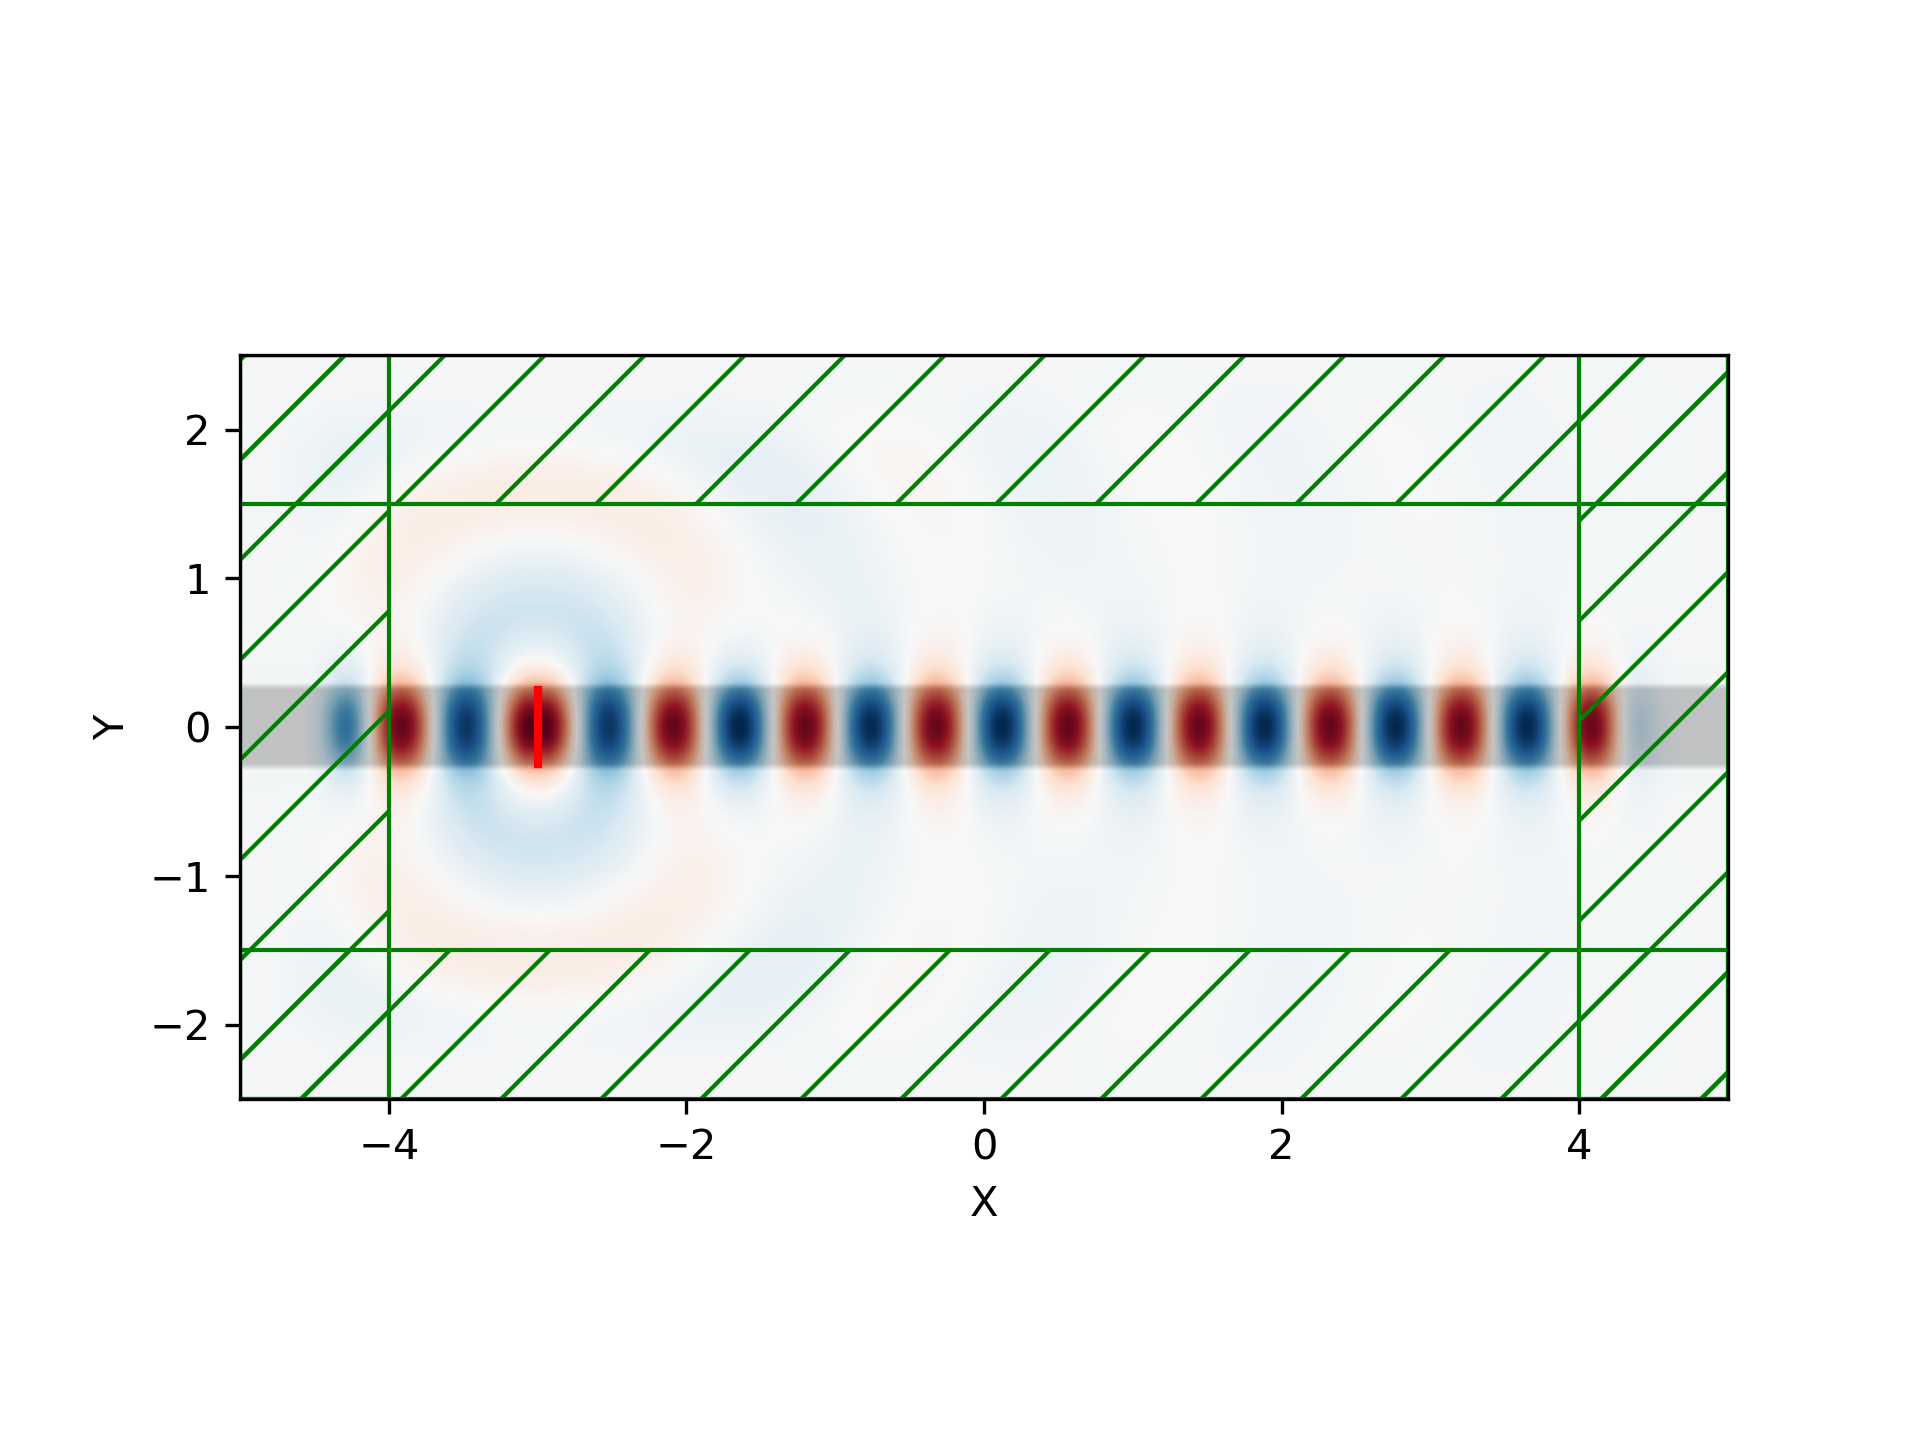
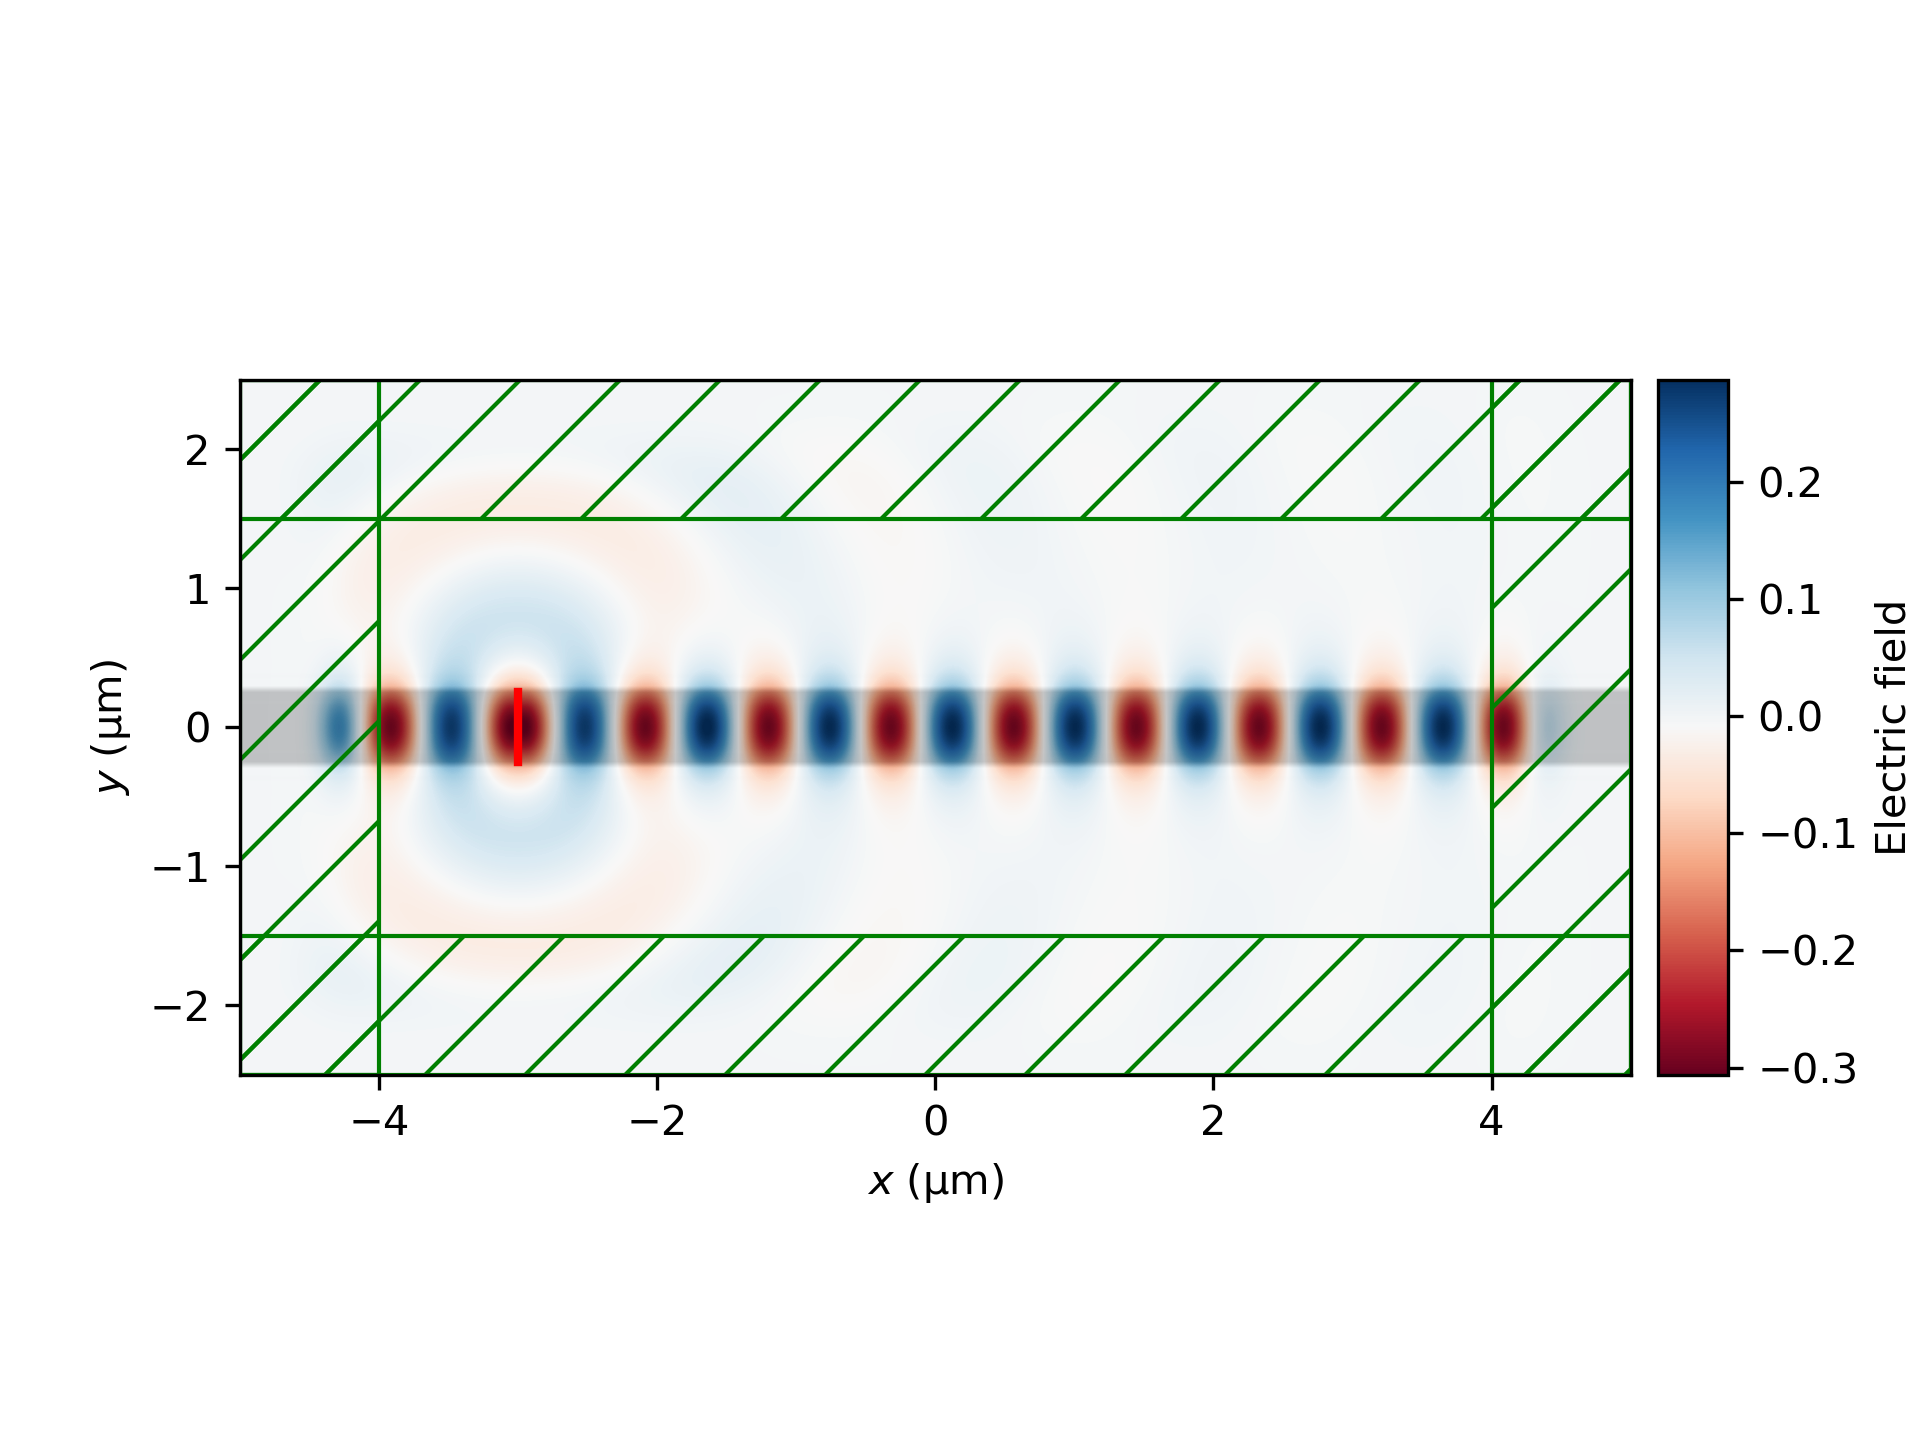
Correction

diff --git a/demo_codes/straight_waveguide.py b/demo_codes/straight_waveguide.py
@@ -1,0 +1,263 @@
+import meep as mp
+import numpy as np
+import h5py
+import matplotlib.pyplot as plt
+from matplotlib.animation import FuncAnimation
+from matplotlib import cm
+from matplotlib.colors import TwoSlopeNorm
+
+
+cell_x = 10
+cell_y = 5
+cell_z = 0
+
+cell = mp.Vector3(cell_x, cell_y, cell_z)
+
+wg_sx = mp.inf  # length
+wg_sy = 0.5  # width
+wg_sz = mp.inf  # height
+
+Si3N4 = mp.Medium(index=2.0)
+
+geometry = [
+    mp.Block(
+        mp.Vector3(wg_sx, wg_sy, wg_sz), center=mp.Vector3(0, 0, 0), material=Si3N4
+    )
+]
+
+# coordinates of the source
+source_x = -3
+source_y = 0
+source_z = 0
+
+wavelength = 1.55
+width = 5
+
+sources = [
+    mp.Source(
+        mp.ContinuousSource(wavelength=wavelength, width=width),
+        component=mp.Ez,
+        center=mp.Vector3(source_x, source_y, source_z),
+        size=mp.Vector3(0, wg_sy, 0),
+    )
+]
+
+pml_w = 1.0
+pml_layers = [mp.PML(pml_w)]
+
+resolution = 20
+
+sim = mp.Simulation(
+    cell_size=cell,
+    boundary_layers=pml_layers,
+    geometry=geometry,
+    sources=sources,
+    resolution=resolution,
+)
+
+sim.plot2D()
+plt.savefig("1_simulation_setup.pdf")
+plt.show()
+
+sim_time = 200
+sim.run(until=sim_time)
+
+
+fig = plt.figure()
+ax = fig.add_subplot(1, 1, 1)
+
+# Capture the image object returned by sim.plot2D
+sim.plot2D(
+    fields=mp.Ez,
+    ax=ax,
+    field_parameters={"colorbar": True},
+    colorbar_parameters={"label": "Electric field"},
+)
+
+# Label axes
+ax.set_xlabel(r"$x$ (µm)")
+ax.set_ylabel(r"$y$ (µm)")
+plt.savefig("2_after_first_run.pdf")
+plt.show()
+
+
+# dielectric constant in the simulation cell (i.e. the waveguide geometry)
+eps_data = sim.get_array(
+    center=mp.Vector3(0, 0, 0), size=cell, component=mp.Dielectric
+).T
+
+# the z-component of the electic field
+ez_data = sim.get_array(center=mp.Vector3(0, 0, 0), size=cell, component=mp.Ez).T
+
+fig = plt.figure()
+ax = fig.add_subplot(1, 1, 1)
+ax.imshow(
+    eps_data, extent=[-cell_x / 2, cell_x / 2, -cell_y / 2, cell_y / 2], cmap="binary"
+)
+
+# determine the global minimum and maximum of the field
+data_min = ez_data.min()
+data_max = ez_data.max()
+print(f"min: {data_min}, max: {data_max}")
+
+# create a custom colormap where zero is white
+cmap = cm.RdBu  # Base colormap
+norm = TwoSlopeNorm(vmin=data_min, vcenter=0, vmax=data_max)
+
+ez_image = ax.imshow(
+    ez_data,
+    extent=[-cell_x / 2, cell_x / 2, -cell_y / 2, cell_y / 2],
+    cmap=cmap,
+    norm=norm,
+    alpha=0.9,
+    interpolation="spline16",
+)
+
+fig.colorbar(ez_image, label="Electric field", ax=ax, orientation="horizontal")
+ax.set_xlabel(r"$x$ (µm)")
+ax.set_ylabel(r"$y$ (µm)")
+
+plt.savefig("3_improved_figure.pdf")
+plt.show()
+
+# Convergence study
+resolutions = np.array([5.0, 10.0, 20.0, 40.0, 80.0])
+
+wg_point = mp.Vector3(4, 0, 0)
+wg_results = np.zeros_like(resolutions, dtype=object)
+
+outside_point = mp.Vector3(2, 0.27, 0)
+outside_results = np.zeros_like(resolutions, dtype=object)
+
+
+for i, resolution in enumerate(resolutions):
+    sim = mp.Simulation(
+        cell_size=cell,
+        boundary_layers=pml_layers,
+        geometry=geometry,
+        sources=sources,
+        resolution=resolution,
+        force_complex_fields=True,
+    )
+    sim.run(until=sim_time)
+
+    wg_results[i] = np.abs(sim.get_field_point(mp.Ez, wg_point))
+    outside_results[i] = np.abs(sim.get_field_point(mp.Ez, outside_point))
+
+
+fig = plt.figure()
+
+ax = fig.add_subplot(1, 1, 1)
+ax.plot(
+    resolutions, wg_results, "x-", linewidth=2, label="A point inside the waveguide"
+)
+ax.plot(
+    resolutions,
+    outside_results,
+    "o-.",
+    linewidth=2,
+    label="A point just outside the waveguide",
+)
+
+ax.set_xscale("log")
+ax.minorticks_off()
+ax.set_xticks(resolutions)
+ax.set_xticklabels([str(int(r)) for r in resolutions])
+ax.set_xlabel("Resolution (px/µm)")
+ax.set_ylabel(r"$|E_z|$ (arb. unit)")
+ax.legend(loc=0)
+
+plt.savefig("4_convergence_study.pdf")
+plt.show()
+
+# Create the animation using command line tools
+resolution = 20
+sim = mp.Simulation(
+    cell_size=cell,
+    boundary_layers=pml_layers,
+    geometry=geometry,
+    sources=sources,
+    resolution=resolution,
+)
+
+sim_time = 50
+output_dir = "out"
+save_time_step = 0.1
+sim.use_output_directory(output_dir)
+sim.run(mp.at_every(save_time_step, mp.output_png(mp.Ez, "-Zc dkbluered")), until=200)
+
+# use e.g. imagemagick of gifski to create the gif at this point!
+
+# Create the animation using Python
+filename = "sim_data"
+resolution = 20
+sim = mp.Simulation(
+    cell_size=cell,
+    boundary_layers=pml_layers,
+    geometry=geometry,
+    sources=sources,
+    resolution=resolution,
+)
+
+with h5py.File(filename + ".h5", "r") as f:
+    # Remember to transpose!
+    eps_data = f["eps"][:, :, 0].T
+    ez_data = f["ez"][:, :, :].T
+
+# Create a figure and axis for plotting
+fig = plt.figure()
+ax = fig.add_subplot(1, 1, 1)
+
+# Plot the eps_data as the background (fixed layer)
+background = ax.imshow(
+    eps_data,
+    extent=[0, cell_x, 0, cell_y],
+    interpolation="spline36",
+    cmap="binary",
+    origin="lower",
+    alpha=0.8,  # Adjust transparency for blending
+)
+
+# Determine the global minimum and maximum of the field
+data_min = ez_data.min()
+data_max = ez_data.max()
+print(f"min: {data_min}, max: {data_max}")
+
+# Create a custom colormap where zero is white
+cmap = cm.RdBu  # Base colormap
+norm = TwoSlopeNorm(vmin=data_min, vcenter=0, vmax=data_max)
+
+# Initialize the plot with the first time slice of the animated data
+img = ax.imshow(
+    ez_data[0, :, :],
+    extent=[0, cell_x, 0, cell_y],
+    interpolation="spline16",
+    cmap=cmap,
+    norm=norm,
+    origin="lower",
+    alpha=0.7,
+)
+
+# Set up title, labels, etc.
+ax.set_title(r"$t=$0")
+ax.set_xlabel(r"$x$ (µm)")
+ax.set_ylabel(r"$y$ (µm)")
+
+
+# Define the update function for each frame of the animation
+def update(frame):
+    # Update only the image data for the current time slice
+    img.set_data(
+        ez_data[frame, :, :],
+    )
+    # Update the title to show the current time
+    ax.set_title(rf"$t=${frame * save_time_step:.0f}")
+
+    return (img,)  # Return the updated image object
+
+
+# Create the animation
+ani = FuncAnimation(
+    fig, update, frames=range(ez_data.shape[0]), interval=100, blit=True
+)
+ani.save("5_animation.gif", writer="imagemagick", fps=30, dpi=100)

diff --git a/docs/source/waveguides.rst b/docs/source/waveguides.rst
@@ -341,7 +341,7 @@ After this, we can use either ``imagemagick`` as in the official documentation o
 - imagemagick: ``magick -delay 3.33 *.png ez.gif``
 - gifski: ``gifski --fps 30 -o ez.gif *.png``
 
-In the imagemagick command, the parameter ``delay`` controls the time between the frames in hundreths of a second, 3.33 leading to approximately 30 fps. 
+In the imagemagick command, the parameter ``delay`` controls the time between the frames in hundreths of a second, 3.33 leading to approximately 30 fps. After running either of the commands, you should have a file ``ez.gif`` in the output directory. 
 
 .. figure:: waveguide_figures/imagemagick.gif
    :alt: Gif created using imagemagick
